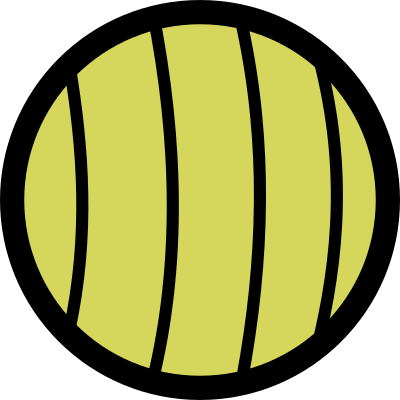
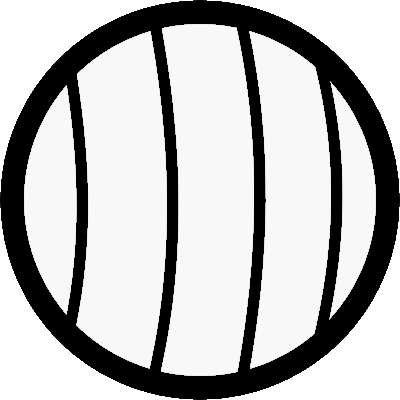
cambios_vale_8_del_8

diff --git a/pruebasDelTatu/prueba1/js/scene1.js b/pruebasDelTatu/prueba1/js/scene1.js
@@ -13,9 +13,10 @@ class Scene1 extends Phaser.Scene {
         this.input.on('pointerup', this.tiro, this);
 
         for(let i = deck.length - 1; i > -1; i--) {
-            let bolita = this.add.sprite(900 - (i * 300),1800,bolitasTexturas[deck[i].color]);
+            let bolita = this.add.sprite(900 - (i * 300),1800,'tatu_bebe');
+            bolita.setTint(burbujas[deck[i].color].color);
             deck[i].obj = bolita;
-            bolita.setScale(0.4);
+            bolita.setScale(0.3);
         }
 
         this.cargarNivelNuevo();
@@ -53,8 +54,9 @@ class Scene1 extends Phaser.Scene {
             bolita.obj.x += 300;
         });
         
-        let bolita = this.physics.add.sprite(900,1800, bolitasTexturas[deck[bolitaALanzar].color]);
-        bolita.setScale(0.4);
+        let bolita = this.physics.add.sprite(900,1800, 'tatu_bebe');
+        bolita.setTint(burbujas[deck[bolitaALanzar].color].color)
+        bolita.setScale(0.3);
         bolita.depth = -1;
         bolita.angle = lanzador.rotation - 1.57;
         bolitas.push(bolita);
@@ -242,16 +244,16 @@ class Scene1 extends Phaser.Scene {
         return nuevoGrupo;
     }
 
-    pruebita(xSize, ySize) {
-        matriz = []
-        for(let y = 0; y < ySize; y++){ fila = []; for(let x = 0; x < xSize; x++){ fila.push(0) } matriz.push(fila) };
+    // pruebita(xSize, ySize) {
+    //     matriz = []
+    //     for(let y = 0; y < ySize; y++){ fila = []; for(let x = 0; x < xSize; x++){ fila.push(0) } matriz.push(fila) };
 
-        matriz.forEach(fila =>{
-            fila.forEach(item =>{
+    //     matriz.forEach(fila =>{
+    //         fila.forEach(item =>{
                 
-            });
-        });
-    }    
+    //         });
+    //     });
+    // }    
     
     //  sergio: hice un copy-paste de crear matriz para modificarlo y usarlo en la función de crear nivel nuevo
     crearMatrizAleatoria(x1, y1, n) {
@@ -400,7 +402,7 @@ class Scene1 extends Phaser.Scene {
     romperGrupoDeBolitas(bola_level, bola_lanzada){
         //  vale: se compara el color.
 
-        if (bola_lanzada.texture.key == bola_level.texture.key) {
+        if (bola_lanzada.tintTopLeft == bolitaRomper[bola_level.texture.key]) {
             //  vale: se obtiene el grupo de la bolita a romper en base a la posición.
             
             let grupo = nivelCargadoGrupos[(bola_level.y-400)/125][(bola_level.x-240)/125];

diff --git a/pruebasDelTatu/prueba1/js/config.js b/pruebasDelTatu/prueba1/js/config.js
@@ -1,13 +1,21 @@
 let text1;
 
 let lanzador;
+
 let bolitas = [];
 
 let burbujas = [
-    {score: 10, color: 0x0000ff},
-    {score: 20, color: 0x00ff00},
-    {score: 30, color: 0xff0000}
+    {score: 10, color: 0x0384fc},   //  Azulinho
+    {score: 20, color: 0xffda52},   //  Amarello
+    {score: 30, color: 0xff5252}    //  Roujo
 ]
+
+
+const bolitaRomper = {
+    basura_1: burbujas[1].color,
+    basura_2: burbujas[2].color,
+    basura_3: burbujas[0].color
+}
 
 let deck = [
     {obj: null, type: 0, color: 0},
@@ -29,7 +37,7 @@ let deck = [
 
 const bolitasTexturas = [
     'basura_3', //  AZUL
-    'basura_1', //  VERDE
+    'basura_1', //  AMARILLO
     'basura_2', //  ROJA
 ];
 
